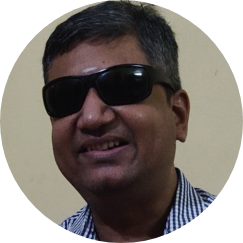
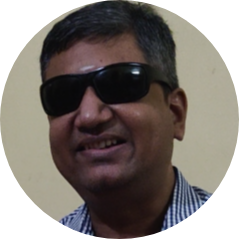
updated testimonial

diff --git a/index.html b/index.html
@@ -4,7 +4,7 @@
 <head>
     <meta charset="utf-8">
     <meta name="viewport" content="width=device-width, initial-scale=1, shrink-to-fit=no">
-    <meta name="description" content="Official website for Vision - the visual assitant for people with low vision">
+    <meta name="description" content="Official website for Vision - the visual assistant for people with low vision">
     <meta name="author" content="Team Intelli-Sense">
     <link href="https://fonts.googleapis.com/css?family=Poppins:100,200,300,400,500,600,700,800,900&display=swap"
         rel="stylesheet">
@@ -34,7 +34,7 @@
             <div class="row">
                 <div class="col-12">
                     <nav class="main-nav">
-                        <a href="index.html" class="logo">
+                        <a href="/" class="logo">
                             Vision
                         </a>
                         <ul class="nav">
@@ -173,7 +173,7 @@
                     <div class="owl-carousel owl-theme">
                         <div class="item service-item">
                             <div class="author">
-                                <i><img src="assets/images/kannan.PNG" alt="Author One"></i>
+                                <i><img src="assets/images/kannan.png" alt="Testimony 1"></i>
                             </div>
                             <div class="testimonial-content">
                                 <ul class="stars">
@@ -185,8 +185,26 @@
                                 </ul>
                                 <h4>Kannan B</h4>
                                 <p>“The features are quite interesting, and I think it is very much useful for the
-                                    visually impaired”</p>
+                                    visually impaired.”</p>
                                 <span>-Government Employee</span>
+                            </div>
+                        </div>
+                        <div class="item service-item">
+                            <div class="author">
+                                <i><img src="assets/images/justin.png" alt="Testimony 2"></i>
+                            </div>
+                            <div class="testimonial-content">
+                                <ul class="stars">
+                                    <li><i class="fa fa-star"></i></li>
+                                    <li><i class="fa fa-star"></i></li>
+                                    <li><i class="fa fa-star"></i></li>
+                                    <li><i class="fa fa-star"></i></li>
+                                    <li><i class="fa fa-star"></i></li>
+                                </ul>
+                                <h4>Justin</h4>
+                                <p>“I really couldn't use other apps, they dont support Tamil language. I love using
+                                    Vision, that too in my very own native language.”</p>
+                                <span>-Help and Help Charitable trust</span>
                             </div>
                         </div>
                     </div>
@@ -318,7 +336,7 @@
             var message = document.getElementById('message').value;
             var body = "Name: " + name + " | Email: " + email + " | Message: " + message;
             var compose = "mailto:tarun.ambili123@gmail.com?subject=Request Beta Testing :Vision&body=" + body;
-            window.location.replace(compose,'_blank');
+            window.location.replace(compose, '_blank');
         }
         var formSubmit = document.getElementById('form-submit');
         formSubmit.addEventListener('click', function () {
